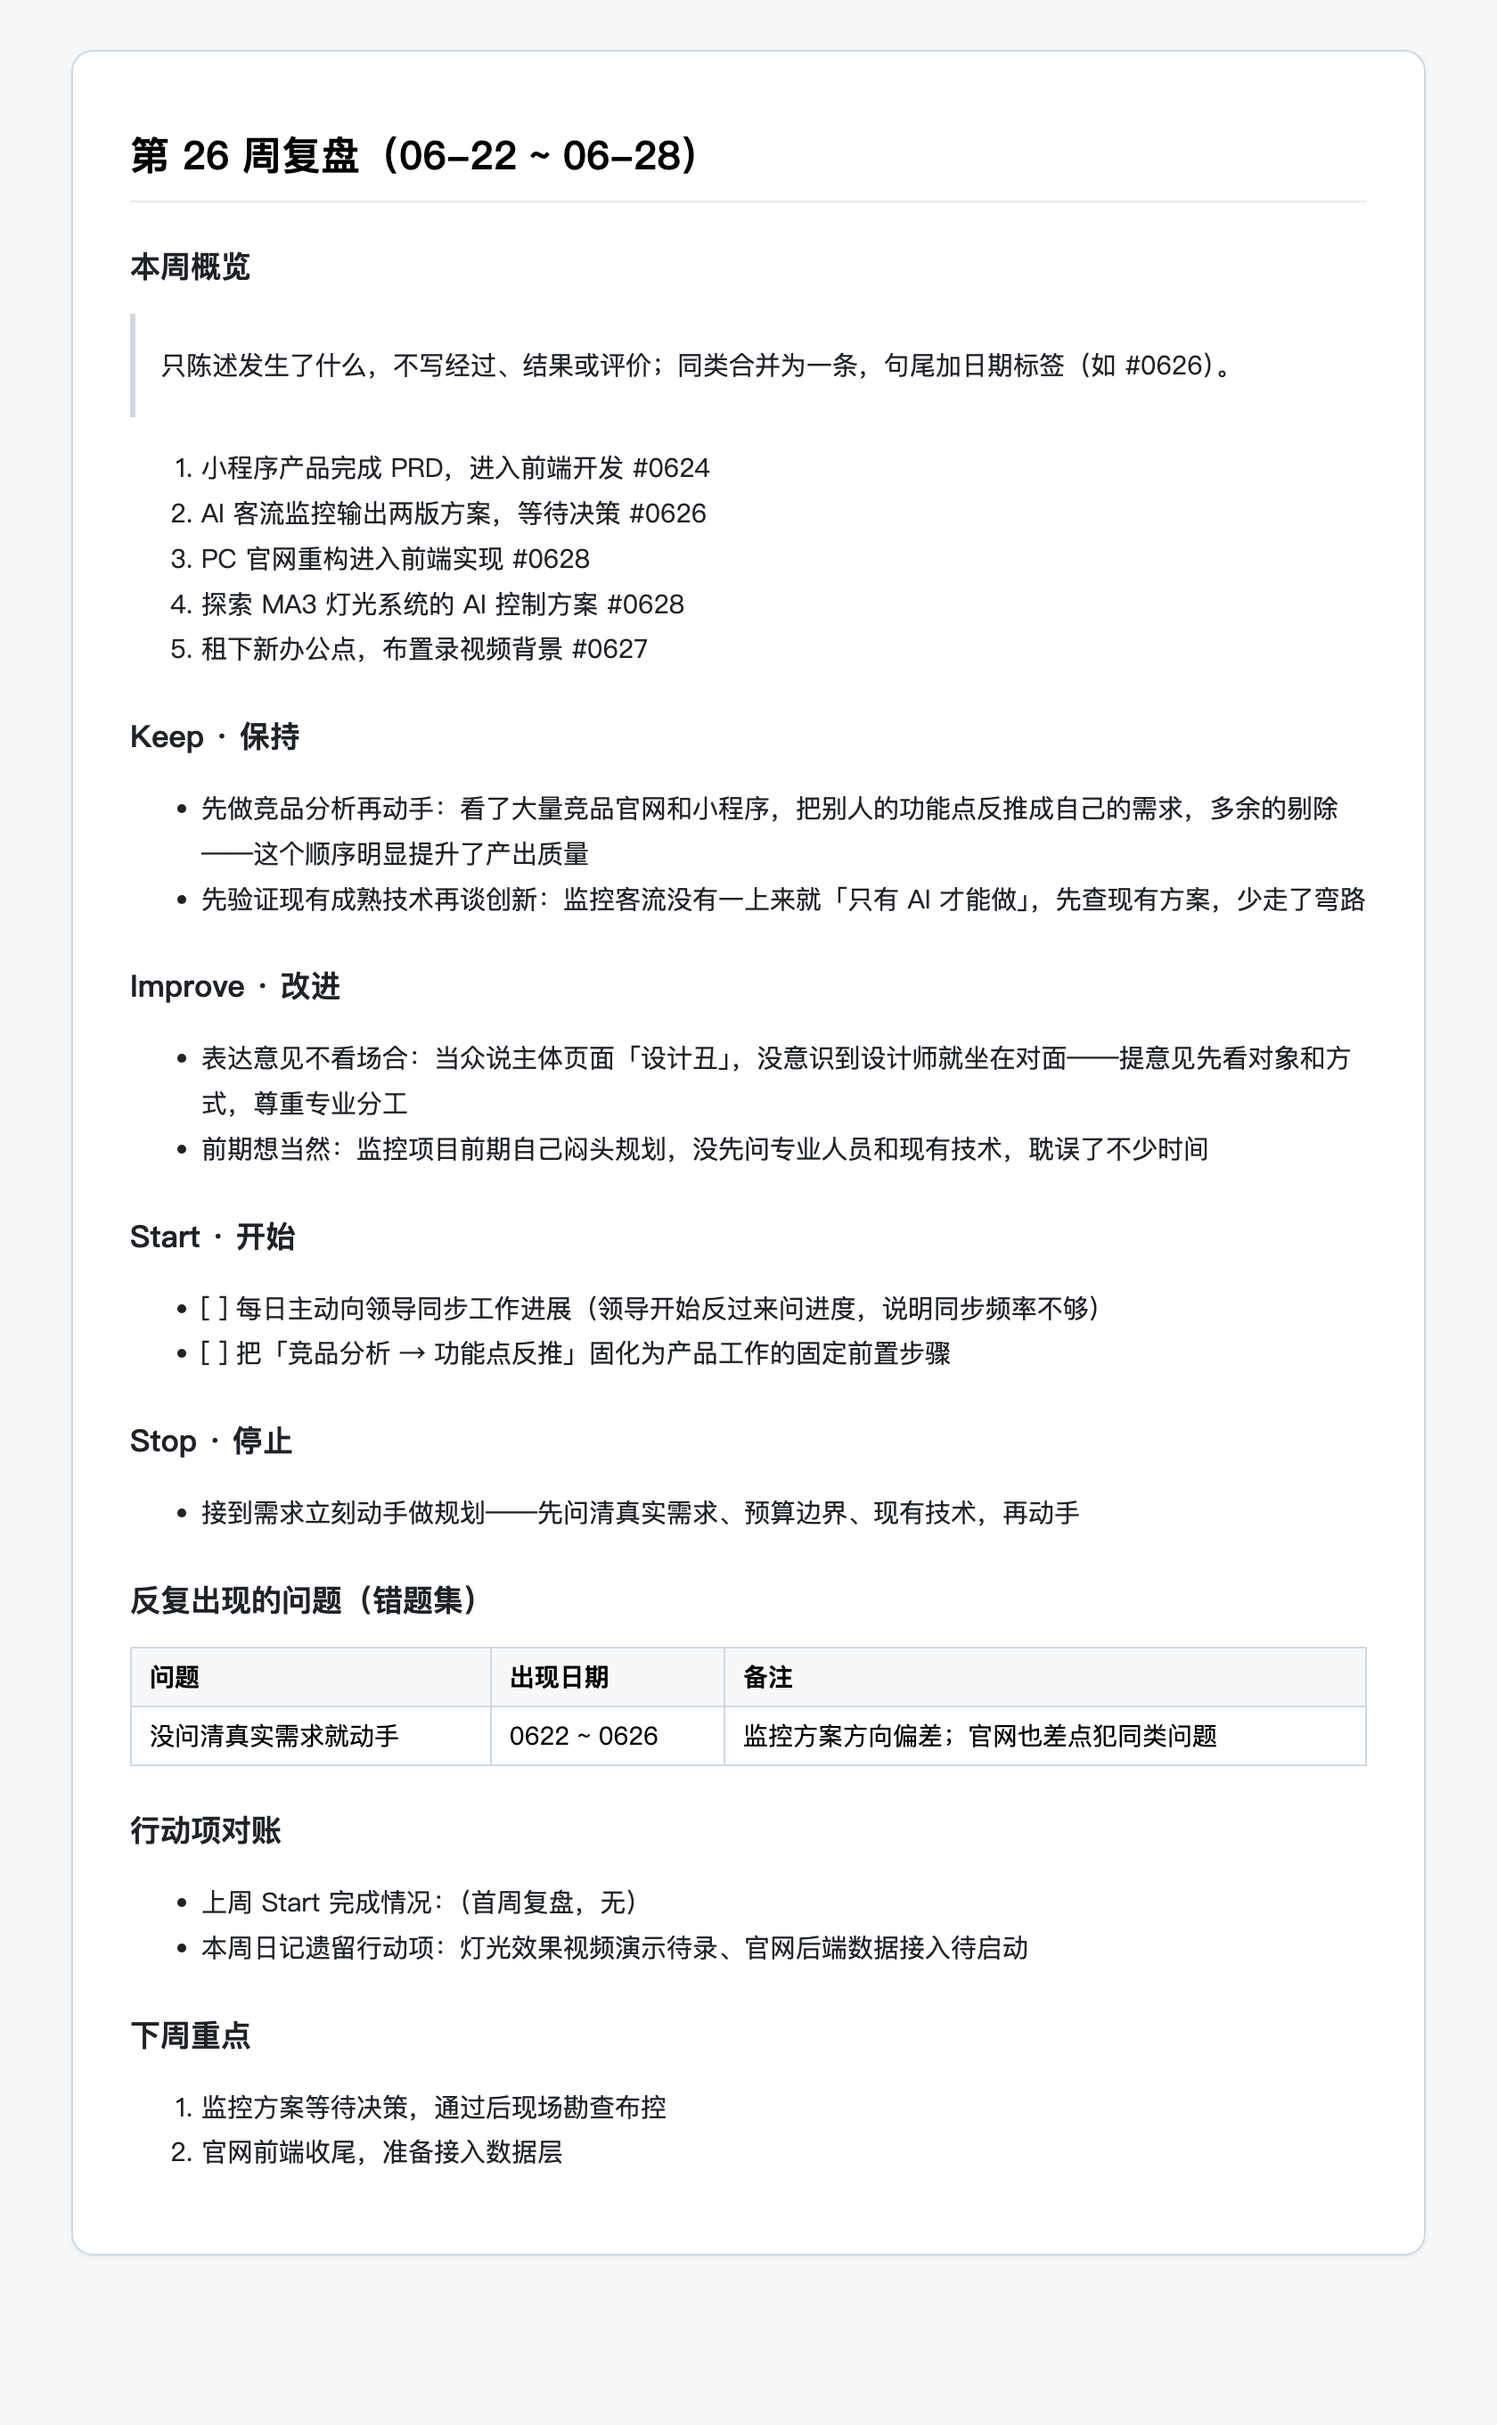
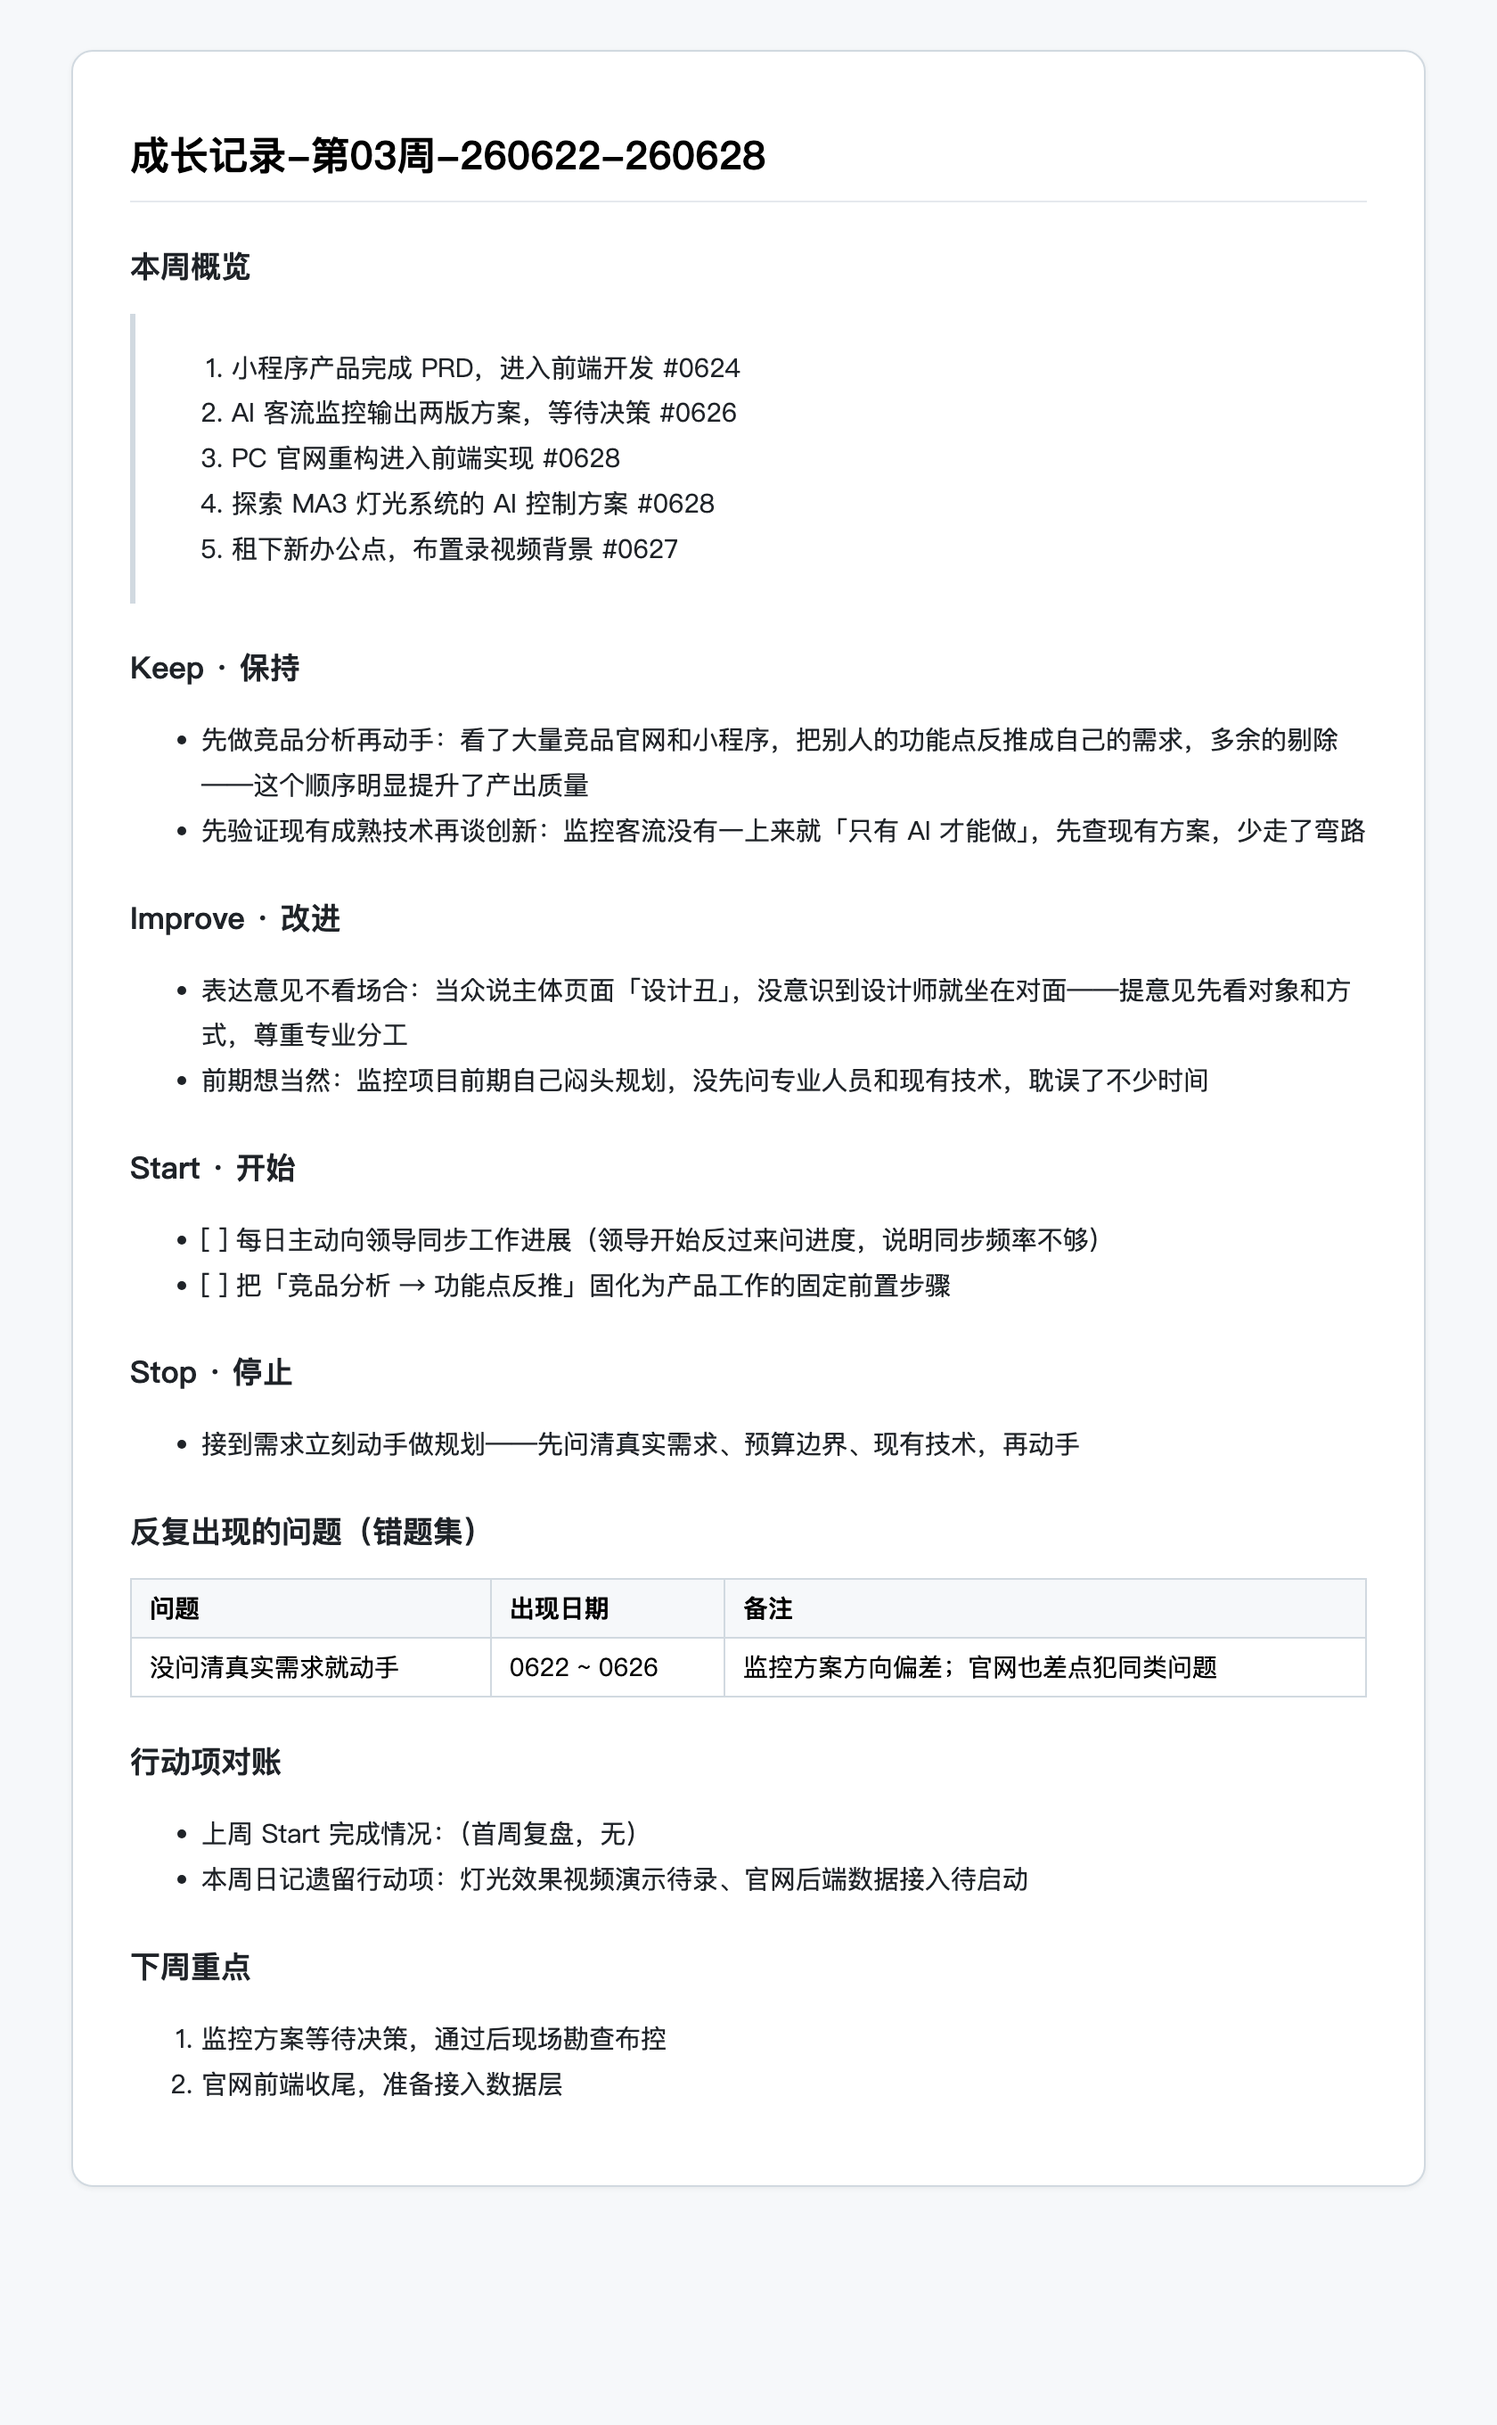
周报：概览改引用式纯条目(删说明行)，命名对齐 成长记录-第XX周-YYMMDD-YYMMDD

diff --git a/references/weekly-review.md b/references/weekly-review.md
@@ -18,7 +18,7 @@
 
 按 `assets/templates/weekly.md` 起草：
 
-- **本周概览（先于一切）**：本周事件的目录级总览——**只陈述发生了什么，不写经过、结果或评价**（评述由下方 KISS 区块承接）；不加小标题、不限条数；相同或相关的内容合并为一条；**每条句尾加日期标签**（格式 `#MMDD`，如 `#0731`），便于溯源到具体日记。年度总结将直接引用全部周报的概览，不再逐篇读日记。
+- **本周概览（先于一切）**：本周事件的目录级总览——**只陈述发生了什么，不写经过、结果或评价**（评述由下方 KISS 区块承接）；不加小标题、不限条数；相同或相关的内容合并为一条；**每条句尾加日期标签**（格式 `#MMDD`，如 `#0731`），便于溯源到具体日记。条目统一用**引用块编号列表**（`> 1. …`）；**模板与成品中不写任何说明文字**——「本周概览」标题本身即是说明，起草规则只留在本文件，绝不写进输出。年度总结将直接引用全部周报的概览，不再逐篇读日记。
 - **Keep（保持）**：本周做得好、值得继续的**具体做法**。拒绝「状态不错」式泛泛结论——每条必须是可以复用的行为。
 - **Improve（改进）**：做得不好、需要调整的地方，附改进动作。
 - **Start（开始）**：要启动的新行动。每条满足：具体做什么 + 什么时候做。
@@ -28,6 +28,6 @@
 
 ## 确认与落盘
 
-同日记流程：陈列 → 用户确认/修改 → 路径 A 写入 `weekly/成长周报-YYYY-Wxx.md`（ISO 周数，如 `weekly/成长周报-2026-W31.md`），路径 B 输出纯净 Markdown（一行文件名 + 一个代码块，零赘述）。
+同日记流程：陈列 → 用户确认/修改 → 路径 A 写入 `weekly/成长记录-第XX周-YYMMDD-YYMMDD.md`（周一起、周日止；周数为开始记录以来的第几周，与日记「第N天」同套计数，如 `weekly/成长记录-第03周-260622-260628.md`），路径 B 输出纯净 Markdown（一行文件名 + 一个代码块，零赘述）。
 
 周报同时是 AI 的导航文件：保持 frontmatter 完整（`type: weekly`、`week`、`tags` 汇总本周日记标签）。

diff --git a/README.en.md b/README.en.md
@@ -125,7 +125,7 @@ revisit:                # decision revisit date
 | Type | Path | Example |
 |---|---|---|
 | Daily | `journal/YYYY/MM/成长记录-第N天-YYYYMMDD.md` | `journal/2026/08/成长记录-第1天-20260801.md` |
-| Weekly | `weekly/成长周报-YYYY-Wxx.md` | `weekly/成长周报-2026-W31.md` |
+| Weekly | `weekly/成长记录-第XX周-YYMMDD-YYMMDD.md` | `weekly/成长记录-第03周-260622-260628.md` |
 | Annual | `yearly/年度总结-YYYY.md` | `yearly/年度总结-2026.md` |
 
 Naming is a sensible default — state any preference and the AI will follow yours.
@@ -137,9 +137,9 @@ The overview only states what happened — no process, no evaluation — with a 
 ```markdown
 ## This Week at a Glance
 
-1. Watched Spider-Man at the cinema, used AI to fill in background lore #0731
-2. Power outage at home for days, sleep schedule fell apart #0730
-3. Built the ljq-growth-journal Skill and open-sourced it on GitHub #0801
+> 1. Watched Spider-Man at the cinema, used AI to fill in background lore #0731
+> 2. Power outage at home for days, sleep schedule fell apart #0730
+> 3. Built the ljq-growth-journal Skill and open-sourced it on GitHub #0801
 ```
 
 ## Structure
@@ -171,7 +171,7 @@ ljq-growth-journal/
 your-vault/ (location of your choice; can sit inside an Obsidian vault)
 ├── index.md                            # memory index: one line per entry (file-writing mode only)
 ├── journal/YYYY/MM/成长记录-第N天-YYYYMMDD.md
-├── weekly/成长周报-YYYY-Wxx.md
+├── weekly/成长记录-第XX周-YYMMDD-YYMMDD.md
 ├── yearly/年度总结-YYYY.md
 └── decisions/                          # decision journal (optional)
 ```

diff --git a/README.md b/README.md
@@ -127,7 +127,7 @@ revisit:                # 决策回检日期（decision 为 true 时填）
 | 类型 | 路径 | 示例 |
 |---|---|---|
 | 日记 | `journal/YYYY/MM/成长记录-第N天-YYYYMMDD.md` | `journal/2026/08/成长记录-第1天-20260801.md` |
-| 周报 | `weekly/成长周报-YYYY-Wxx.md` | `weekly/成长周报-2026-W31.md` |
+| 周报 | `weekly/成长记录-第XX周-YYMMDD-YYMMDD.md` | `weekly/成长记录-第03周-260622-260628.md` |
 | 年度总结 | `yearly/年度总结-YYYY.md` | `yearly/年度总结-2026.md` |
 
 命名是大众化默认值——你提出任何偏好，AI 无条件以你的为准。
@@ -139,9 +139,9 @@ revisit:                # 决策回检日期（decision 为 true 时填）
 ```markdown
 ## 本周概览
 
-1. 电影院看《蜘蛛侠-崭新之日》，用 AI 辅助补背景知识 #0731
-2. 家里停电几天，作息紊乱 #0730
-3. 做了 ljq-growth-journal Skill 并开源到 GitHub #0801
+> 1. 电影院看《蜘蛛侠-崭新之日》，用 AI 辅助补背景知识 #0731
+> 2. 家里停电几天，作息紊乱 #0730
+> 3. 做了 ljq-growth-journal Skill 并开源到 GitHub #0801
 ```
 
 ## 结构总览
@@ -173,7 +173,7 @@ ljq-growth-journal/
 日记库/（位置自定，可直接放进 Obsidian 库）
 ├── index.md                            # 记忆索引：每篇一行的全库目录（仅落盘模式）
 ├── journal/YYYY/MM/成长记录-第N天-YYYYMMDD.md
-├── weekly/成长周报-YYYY-Wxx.md
+├── weekly/成长记录-第XX周-YYMMDD-YYMMDD.md
 ├── yearly/年度总结-YYYY.md
 └── decisions/                          # 决策日志（可选）
 ```

diff --git a/assets/examples/weekly-example.md b/assets/examples/weekly-example.md
@@ -1,21 +1,19 @@
 ---
 type: weekly
-week: 2026-W26
+week: 3
 date: 2026-06-28
 tags: [工作, 产品, 前端, 自媒体, 职场]
 ---
 
-# 第 26 周复盘（06-22 ~ 06-28）
+# 成长记录-第03周-260622-260628
 
 ## 本周概览
 
-> 只陈述发生了什么，不写经过、结果或评价；同类合并为一条，句尾加日期标签（如 #0626）。
-
-1. 小程序产品完成 PRD，进入前端开发 #0624
-2. AI 客流监控输出两版方案，等待决策 #0626
-3. PC 官网重构进入前端实现 #0628
-4. 探索 MA3 灯光系统的 AI 控制方案 #0628
-5. 租下新办公点，布置录视频背景 #0627
+> 1. 小程序产品完成 PRD，进入前端开发 #0624
+> 2. AI 客流监控输出两版方案，等待决策 #0626
+> 3. PC 官网重构进入前端实现 #0628
+> 4. 探索 MA3 灯光系统的 AI 控制方案 #0628
+> 5. 租下新办公点，布置录视频背景 #0627
 
 ## Keep · 保持
 

diff --git a/assets/templates/weekly.md b/assets/templates/weekly.md
@@ -1,17 +1,15 @@
 ---
 type: weekly
-week: YYYY-Wxx
+week: X
 date: YYYY-MM-DD
 tags: []
 ---
 
-# 第 xx 周复盘（MM-DD ~ MM-DD）
+# 成长记录-第XX周-YYMMDD-YYMMDD
 
 ## 本周概览
 
-> 只陈述发生了什么，不写经过、结果或评价；同类合并为一条，句尾加日期标签（如 #0731）。
-
-1. 
+> 1. 
 
 ## Keep · 保持
 
